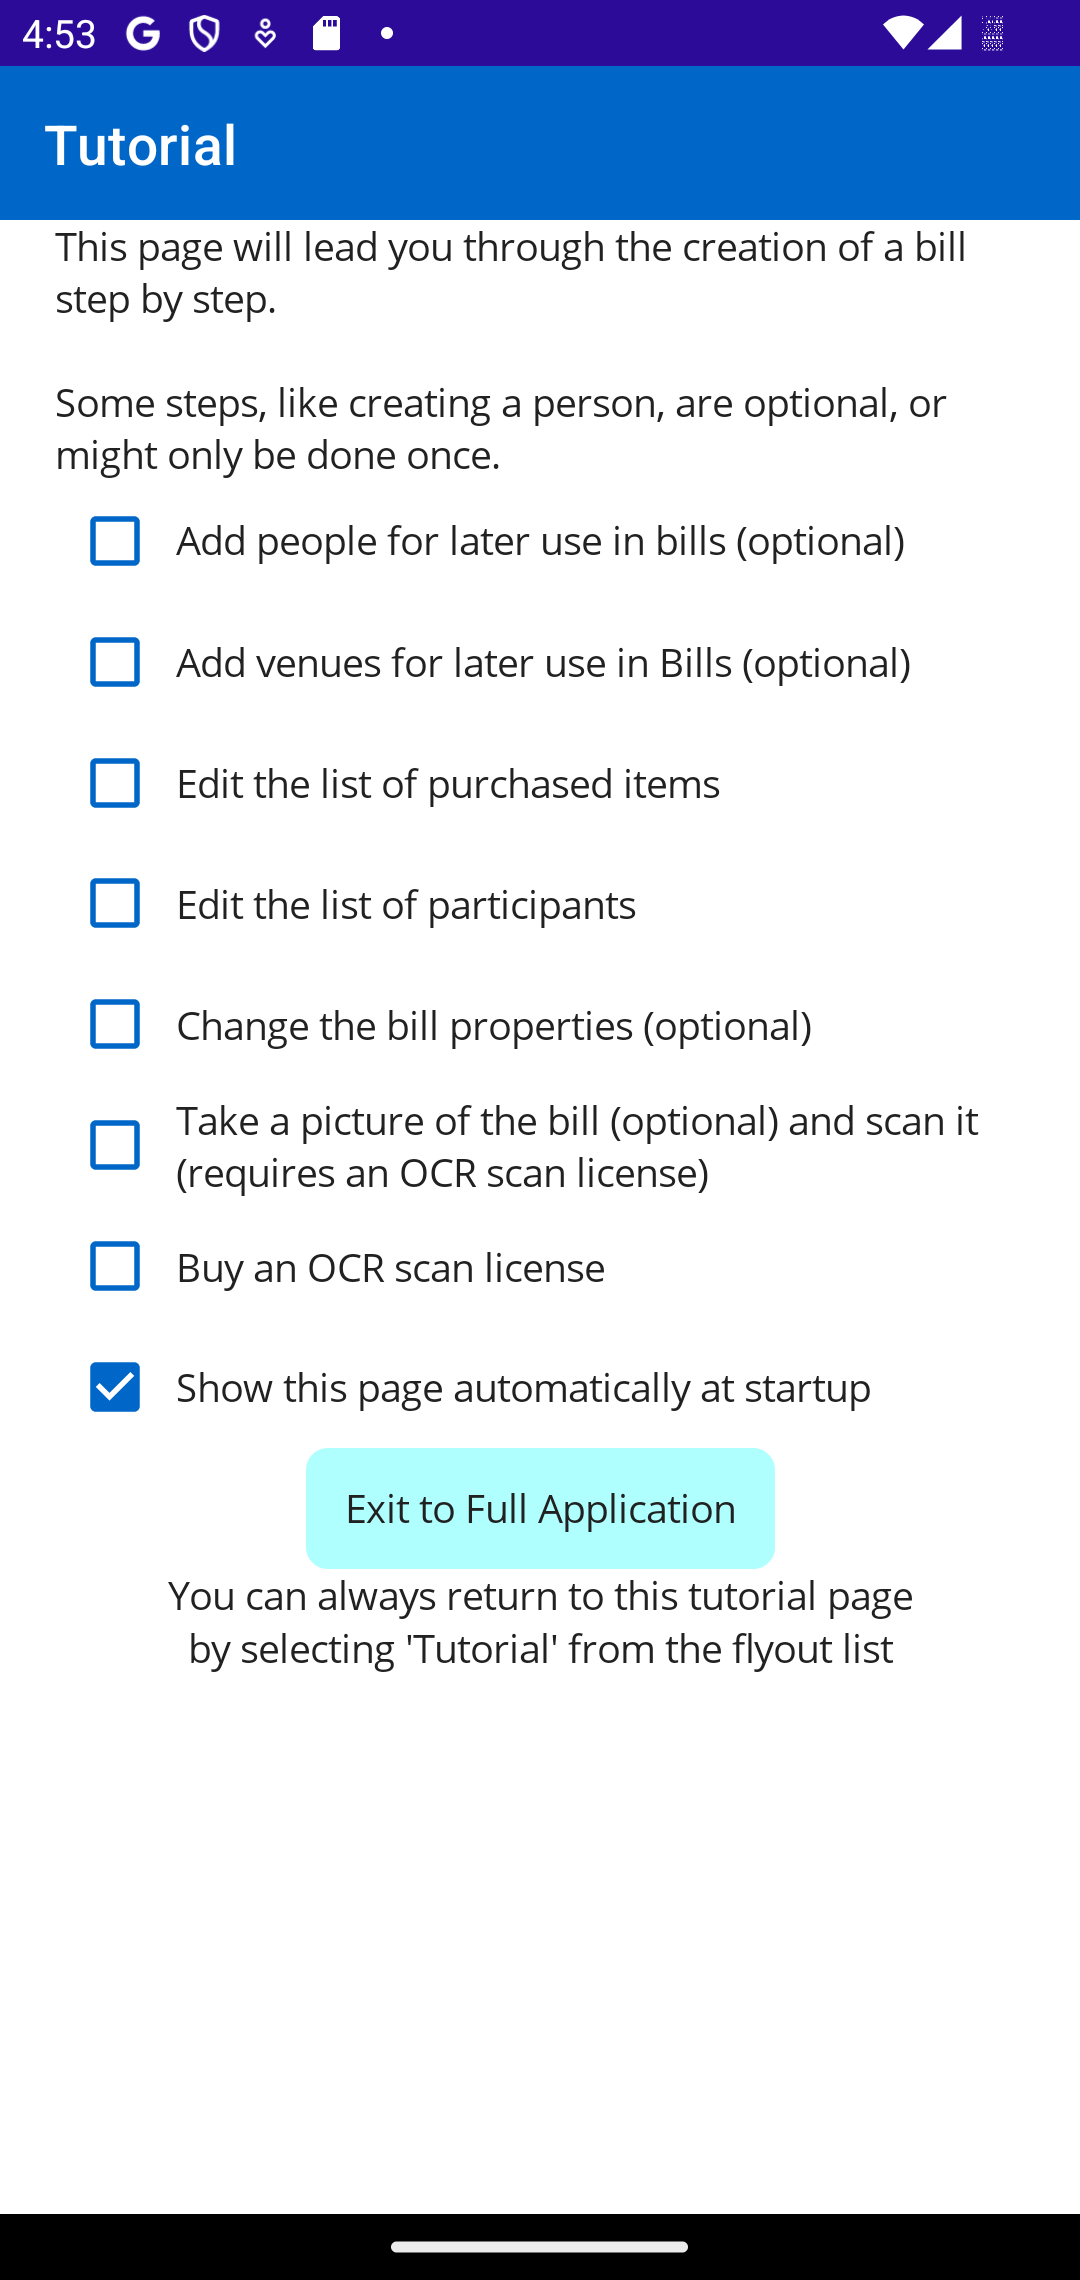
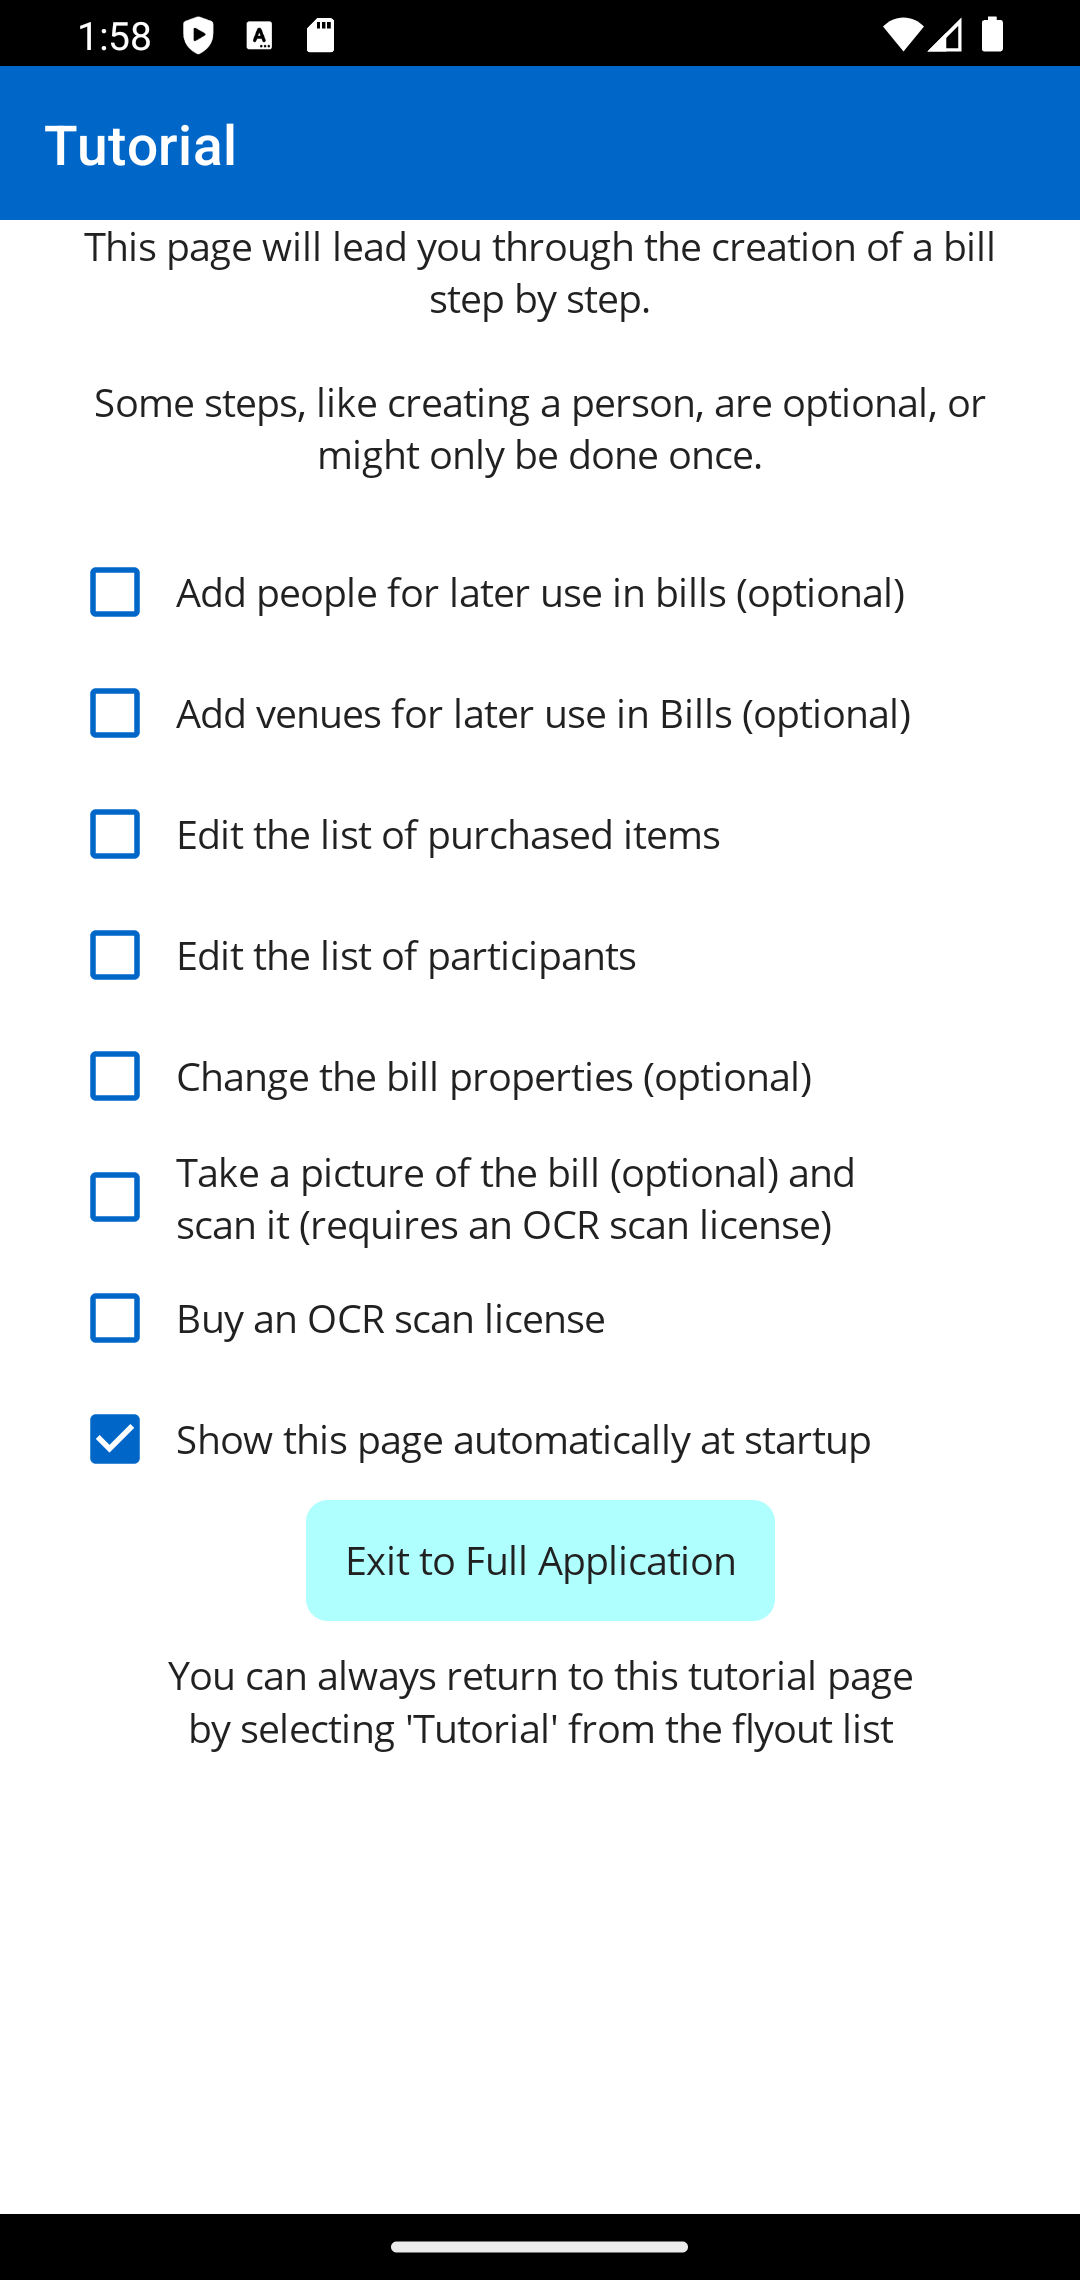
Help Version 6.3.10
Also add a md-styles.css file and change the earliest version Android is built for.

Changed region(s): [[0.0611, 0.0934, 0.9167, 0.7785], [0.0, 0.0, 1.0, 0.0311], [0.8861, 0.4671, 0.9167, 0.4982]]

diff --git a/web/divisibill/problemreportglossary.html b/web/divisibill/problemreportglossary.html
@@ -1,0 +1,35 @@
+<!DOCTYPE html>
+<!-- GENERATED FILE - DO NOT EDIT -->
+<html>
+<head>
+  <meta charset="utf-8" />
+  <meta name="generator" content="pandoc" />
+  <meta name="viewport" content="width=device-width, initial-scale=1.0">
+  <title>problemreportglossary</title>
+  <link rel="stylesheet" href="styles.css">
+</head>
+<body>
+<h1 id="problem-report">Problem Report</h1>
+<p>This is a list of the main areas on the Information and Problems pages. This focuses on the “Release Notes” page but “About” and “Report a Problem” are selectable from the list at the bottom of the page.</p>
+<h2 id="report">Report</h2>
+<p>Tap this button to report an issue direct to the bug management database. The report will contain some information about what you were doing, the state of the application at the time, and whatever text you choose to provide. Please describe your issue in that text.</p>
+<h2 id="mail">Mail</h2>
+<p>Tap this button to report an issue in email to DivisiBill support. You can control what information is sent by editing the mail before sending. Please describe your issue in that text.</p>
+<h2 id="issue">Issue</h2>
+<p>This is where you describe the issue you are reporting.</p>
+<h2 id="clear">Clear</h2>
+<p>This button clears the issue text (it can be restored by tapping the UnClear button). It is only enabled if there is any text in the issue area.</p>
+<h2 id="unclear">UnClear</h2>
+<p>This button appends whatever issue text was last cleared. It is enabled only if some text has previously been cleared.</p>
+<h2 id="selectable-options">Selectable Options</h2>
+<p>As well as this “Release Notes” page, you can select the “About” or the “Report a Problem” pages.</p>
+<ul>
+<li><p>About</p>
+<p>This contains information about the running version of DivisiBill.</p></li>
+<li><p>Release Notes</p>
+<p>A list of the latest changes in DivisiBill.</p></li>
+</ul>
+
+<script src="script.js"></script>
+</body>
+</html>

diff --git a/web/divisibill/lineitemsglossary.html b/web/divisibill/lineitemsglossary.html
@@ -18,7 +18,7 @@
 <h3 id="filter">Filter (<u></u>/<u></u>)</h3>
 <p>Changes filtering, either by cycling round all the participants, or if an item is selected, all the participants for the selected particular item. Before cycling round to the first item it turn off filtering altogether, so as to show the full list of items.</p>
 <h3 id="add">Add (<u></u>)</h3>
-<p>Adds a new item to the bill before the currently selected item and selects the newly added item so you can edit the description, amount and assignment to participants.</p>
+<p>Adds a new item to the bill after the currently selected item and selects the newly added item so you can edit the description, amount and assignment to participants. The easiest way to add an item at the very beginning of the list is add it after the existing first item, then delete the first item leaving the one you added at the start of the list. Then undelete the former first item that you deleted and it will be inserted after the new first item (because it is the selected item now).</p>
 <h3 id="delete">Delete (<u></u>)</h3>
 <p>Deletes the selected item or items (you can Undo this if you do it by mistake). To delete a single item, you can also swipe left on that item.</p>
 <h3 id="ellipsis">Ellipsis (<u></u>)</h3>

diff --git a/web/divisibill/aboutglossary.html b/web/divisibill/aboutglossary.html
@@ -16,9 +16,9 @@
 <h2 id="save-icon">Save Icon</h2>
 <p>Select this icon to save a snapshot of the current bill immediately without altering the bill itself.</p>
 <h2 id="about-autoplus">About AutoPlus</h2>
-<p>This button takes you to an external web site to learn more about AutoPlus. The same site also has a copy of this help text if you would rather view it in a web browser.</p>
-<h2 id="about-xamarin">About Xamarin</h2>
-<p>This button takes you to an external web site to learn more about the Xamarin technology used to create DivisiBill. Xamarin is being replaced by Microsoft MAUI at the time of writing (2023) but for the moment both are supported.</p>
+<p>This button takes you to an external web site to learn more about AutoPlus. That site also has a copy of this help text if you would rather view it in a web browser.</p>
+<h2 id="about-maui">About MAUI</h2>
+<p>This button takes you to an external web site to learn more about the .NET MAUI technology used to create DivisiBill.</p>
 <h2 id="selectable-options">Selectable Options</h2>
 <p>As well as this “About” page, you can select the “Release Notes” or the “Report a Problem” pages.</p>
 <ul>

diff --git a/web/divisibill/md-styles.css b/web/divisibill/md-styles.css
@@ -1,0 +1,61 @@
+* {
+    font-family: Arial, Helvetica, sans-serif;
+}
+
+html, body {
+    max-width: 500px;
+    margin: 0 auto;
+    border: 0;
+    padding: 0;
+    color: white;
+    background-color: black;
+}
+
+body {
+    width: 90%;
+    padding: 10px;
+}
+
+h1 {
+    text-align: center;
+    font-size: 3.5em;
+}
+
+img {
+    max-width: 100%;
+    width: 300px;
+    height: auto;
+    display: block;
+    margin-left: auto;
+    margin-right: auto;
+}
+
+table, th, td {
+    border: 1px solid white;
+    border-collapse: collapse;
+    padding: 10px;
+    margin-left: auto;
+    margin-right: auto;
+}
+
+.highlight {
+    color: orangered;
+}
+
+a:link {
+    color: mediumspringgreen;
+}
+
+a:visited {
+    color: mediumspringgreen;
+}
+
+u {
+    font-family: icons;
+    text-decoration-line: none;
+}
+
+@font-face {
+    font-family: icons;
+    src: url(materialdesignicons-webfont.ttf)
+}

diff --git a/web/divisibill/index.html b/web/divisibill/index.html
@@ -45,7 +45,7 @@
 <h2 id="data-deletion-policy">Data Deletion Policy</h2>
 <p>Professional Edition Subscribers may delete their cloud based data (bills and/or lists of people or venues) at any time through DivisiBill, by canceling their subscription, or by sending an email request to <a href="mailto:support@autopl.us">DivisiBill Support</a> along with their Professional Subscription order number (DivisiBill will add this to the mail automatically, just don’t delete it). Once a Professional Subscription ends (either by being canceled or not being renewed) the corresponding cloud based data will be removed. The source of this data is anonymous though the data itself may give some clues, especially to the users location.</p>
 <p style="Text-align:center; font-size: 0.8em">
-Updated November 10, 2025 for version 6.2.44
+Updated January 2026 for version 6.3.10
 </p>
 
 <script src="script.js"></script>

diff --git a/web/divisibill/problemreportpage.html b/web/divisibill/problemreportpage.html
@@ -1,0 +1,20 @@
+<!DOCTYPE html>
+<!-- GENERATED FILE - DO NOT EDIT -->
+<html>
+<head>
+  <meta charset="utf-8" />
+  <meta name="generator" content="pandoc" />
+  <meta name="viewport" content="width=device-width, initial-scale=1.0">
+  <title>problemreportpage</title>
+  <link rel="stylesheet" href="styles.css">
+</head>
+<body>
+<h1 id="problem-report-page">Problem Report Page</h1>
+<p>This is the page you see if you select the “Report a Problem” tab on the “Information and Problems” page.</p>
+<p>In the image below, tap on a highlighted area to see what it does (on a desktop browser, you can also hover over an area to see its name).</p>
+<object type="image/svg+xml" data="problemreportpage.svg" height="600" style="width:90%">
+</object>
+
+<script src="script.js"></script>
+</body>
+</html>

diff --git a/web/divisibill/aboutpage.html b/web/divisibill/aboutpage.html
@@ -21,8 +21,8 @@
 <ul>
 <li><p>Release Notes</p>
 <p>This contains a list of highlights of the changes in the current and previous releases.</p></li>
-<li><p>Report a Problem</p>
-<p>This offers a text page pre-populated with some data where you can enter additional problem details to send to DivisiBill support.</p></li>
+<li><p><a href="problemreportpage.html">Report a Problem</a></p>
+<p>This offers a text page where you can enter additional problem details to send to DivisiBill support.</p></li>
 </ul>
 
 <script src="script.js"></script>

diff --git a/web/divisibill/problemreportglossary.md b/web/divisibill/problemreportglossary.md
@@ -1,0 +1,35 @@
+# Problem Report
+
+This is a list of the main areas on the Information and Problems pages. This focuses on the "Release Notes" page but "About" and "Report a Problem" are selectable from the list at the bottom of the page. 
+
+## Report
+
+Tap this button to report an issue direct to the bug management database. The report will contain some information about what you were doing, the state of the application at the time, and whatever text you choose to provide. Please describe your issue in that text.
+
+## Mail
+
+Tap this button to report an issue in email to DivisiBill support. You can control what information is sent by editing the mail before sending. Please describe your issue in that text.
+
+## Issue
+
+This is where you describe the issue you are reporting.
+
+## Clear
+
+This button clears the issue text (it can be restored by tapping the UnClear button). It is only enabled if there is any text in the issue area.
+
+## UnClear
+
+This button appends whatever issue text was last cleared. It is enabled only if some text has previously been cleared.
+
+## Selectable Options
+
+As well as this "Release Notes" page, you can select the "About" or the "Report a Problem" pages.
+
+- About
+
+    This contains information about the running version of DivisiBill.
+
+- Release Notes
+
+    A list of the latest changes in DivisiBill.

diff --git a/web/divisibill/index.md b/web/divisibill/index.md
@@ -57,4 +57,4 @@ Otherwise it connects only when you specifically request it to (for example, in 
 
 Professional Edition Subscribers may delete their cloud based data (bills and/or lists of people or venues) at any time through DivisiBill, by canceling their subscription, or by sending an email request to [DivisiBill Support](mailto:support@autopl.us) along with their Professional Subscription order number (DivisiBill will add this to the mail automatically, just don't delete it). Once a Professional Subscription ends (either by being canceled or not being renewed) the corresponding cloud based data will be removed. The source of this data is anonymous though the data itself may give some clues, especially to the users location.
 
-<p style="Text-align:center; font-size: 0.8em">Updated November 10, 2025 for version 6.2.44</p>
+<p style="Text-align:center; font-size: 0.8em">Updated January 2026 for version 6.3.10</p>

diff --git a/web/divisibill/aboutglossary.md b/web/divisibill/aboutglossary.md
@@ -12,11 +12,11 @@ Select this icon to save a snapshot of the current bill immediately without alte
 
 ## About AutoPlus
 
-This button takes you to an external web site to learn more about AutoPlus. The same site also has a copy of this help text if you would rather view it in a web browser.
+This button takes you to an external web site to learn more about AutoPlus. That site also has a copy of this help text if you would rather view it in a web browser.
 
-## About Xamarin
+## About MAUI
 
-This button takes you to an external web site to learn more about the Xamarin technology used to create DivisiBill. Xamarin is being replaced by Microsoft MAUI at the time of writing (2023) but for the moment both are supported.
+This button takes you to an external web site to learn more about the .NET MAUI technology used to create DivisiBill.
 
 ## Selectable Options
 

diff --git a/web/divisibill/lineitemsglossary.md b/web/divisibill/lineitemsglossary.md
@@ -16,7 +16,7 @@ Changes filtering, either by cycling round all the participants, or if an item i
 
 ### Add (<u>&#xF0419;</u>)
 
-Adds a new item to the bill before the currently selected item and selects the newly added item so you can edit the description, amount and assignment to participants.
+Adds a new item to the bill after the currently selected item and selects the newly added item so you can edit the description, amount and assignment to participants. The easiest way to add an item at the very beginning of the list is add it after the existing first item, then delete the first item leaving the one you added at the start of the list. Then undelete the former first item that you deleted and it will be inserted after the new first item (because it is the selected item now).
 
 ### Delete (<u>&#xF0A7A;</u>)
 

diff --git a/web/divisibill/aboutpage.md b/web/divisibill/aboutpage.md
@@ -14,6 +14,6 @@ The other two pages are:
 
     This contains a list of highlights of the changes in the current and previous releases.
 
-- Report a Problem
+- [Report a Problem](problemreportpage.html)
 
-    This offers a text page pre-populated with some data where you can enter additional problem details to send to DivisiBill support.
+    This offers a text page where you can enter additional problem details to send to DivisiBill support.
